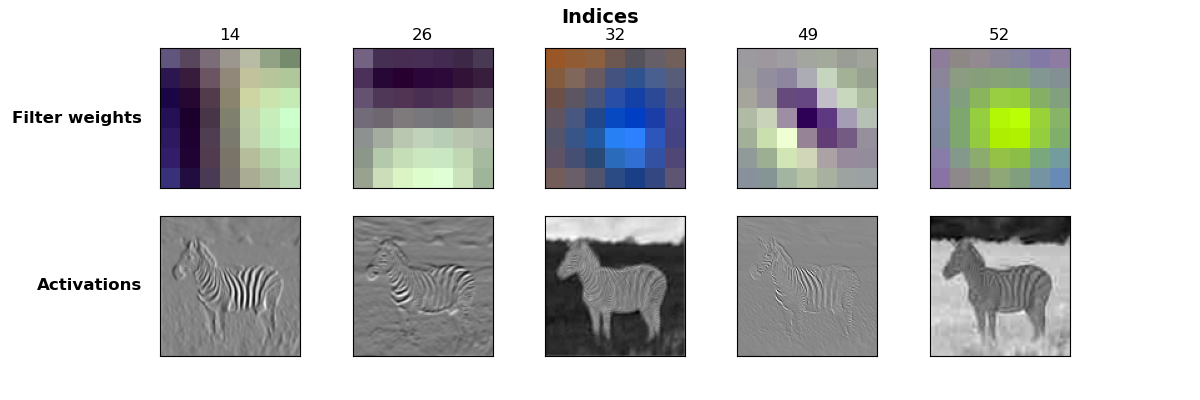
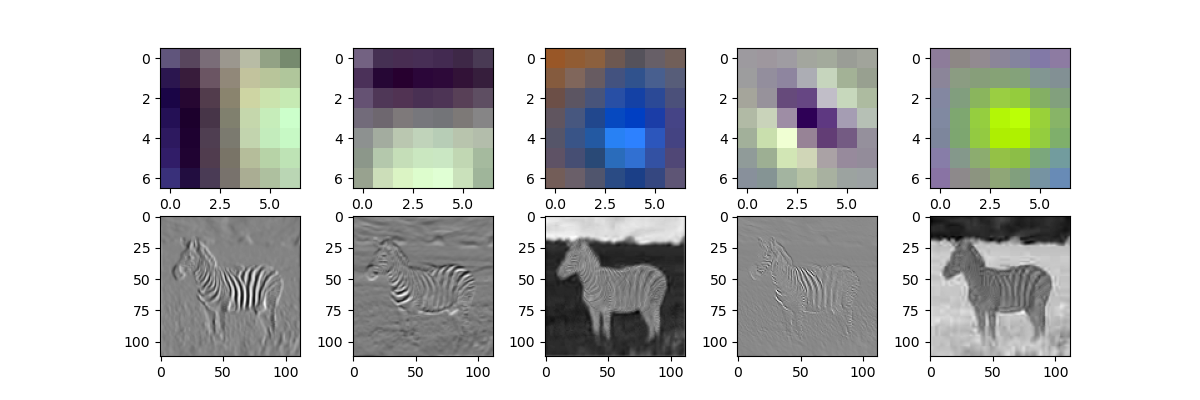
Clean up task 3b/c and plots

diff --git a/assignment3/task4b.py b/assignment3/task4b.py
@@ -48,53 +48,28 @@ def torch_image_to_numpy(image: torch.Tensor):
 
 
 ###############################################################################
-# Task 4b: Visualize the activation of the first convolutional layer
+# Task 4b/c: Visualize the activation of the first convolutional layer
 ###############################################################################
 
 def plot_filter_and_activation(activations, indices, plotname, weights=torch.Tensor([])):
-    """
-    Function for making plots in task 4b and 4c. 
-    
-    Args: 
-        activations: tensor conaining activations 
-        indices: list of indices in the layers you want to plot 
-        plotname: name of the plot to save
-        weighst (optional): tensor of weights. If not given, only activations will be plotted
-    """
     fig, axs = plt.subplots(nrows=2 if weights.nelement() else 1,
                             ncols=len(indices),
                             figsize=(12, 4))
-    fig.suptitle('Indices', fontsize=14, fontweight='bold')
 
     a_subplot_index = 1 if weights.nelement() else 0
     
     if weights.nelement():
         ax0 = axs[0,:]
-        # Adding subplot title
-        ax0[0].annotate('Filter weights', xy=(0, 0.5), xytext=(-ax0[0].yaxis.labelpad - 5, 0),
-                                xycoords=ax0[0].yaxis.label, textcoords='offset points',
-                                size='large', ha='right', va='center', fontsize=12, fontweight='bold')
-    
+
     ax1 = axs[a_subplot_index,:] if weights.nelement() else axs
-    # Adding subplot title
-    ax1[0].annotate('Activations', xy=(0, 0.5), xytext=(-ax1[0].yaxis.labelpad - 5, 0),
-                            xycoords=ax1[0].yaxis.label, textcoords='offset points',
-                            size='large', ha='right', va='center', fontsize=12, fontweight='bold')
     
-    #Plotting subplots with title corresponding to the indices they represent.
     for i, index in enumerate(indices):
         if weights.nelement():
             w_img = torch_image_to_numpy(weights[index])
             ax0[i].imshow(w_img)
-            ax0[i].set_title('{}'.format(index))
-            ax0[i].set_xticks([])
-            ax0[i].set_yticks([])
 
         a_img = torch_image_to_numpy(activations[0][index])
         ax1[i].imshow(a_img, cmap='gray')
-        ax1[i].set_title('' if weights.nelement() else '{}'.format(index))
-        ax1[i].set_xticks([])
-        ax1[i].set_yticks([])
         
     plt.savefig(plotname)
 
